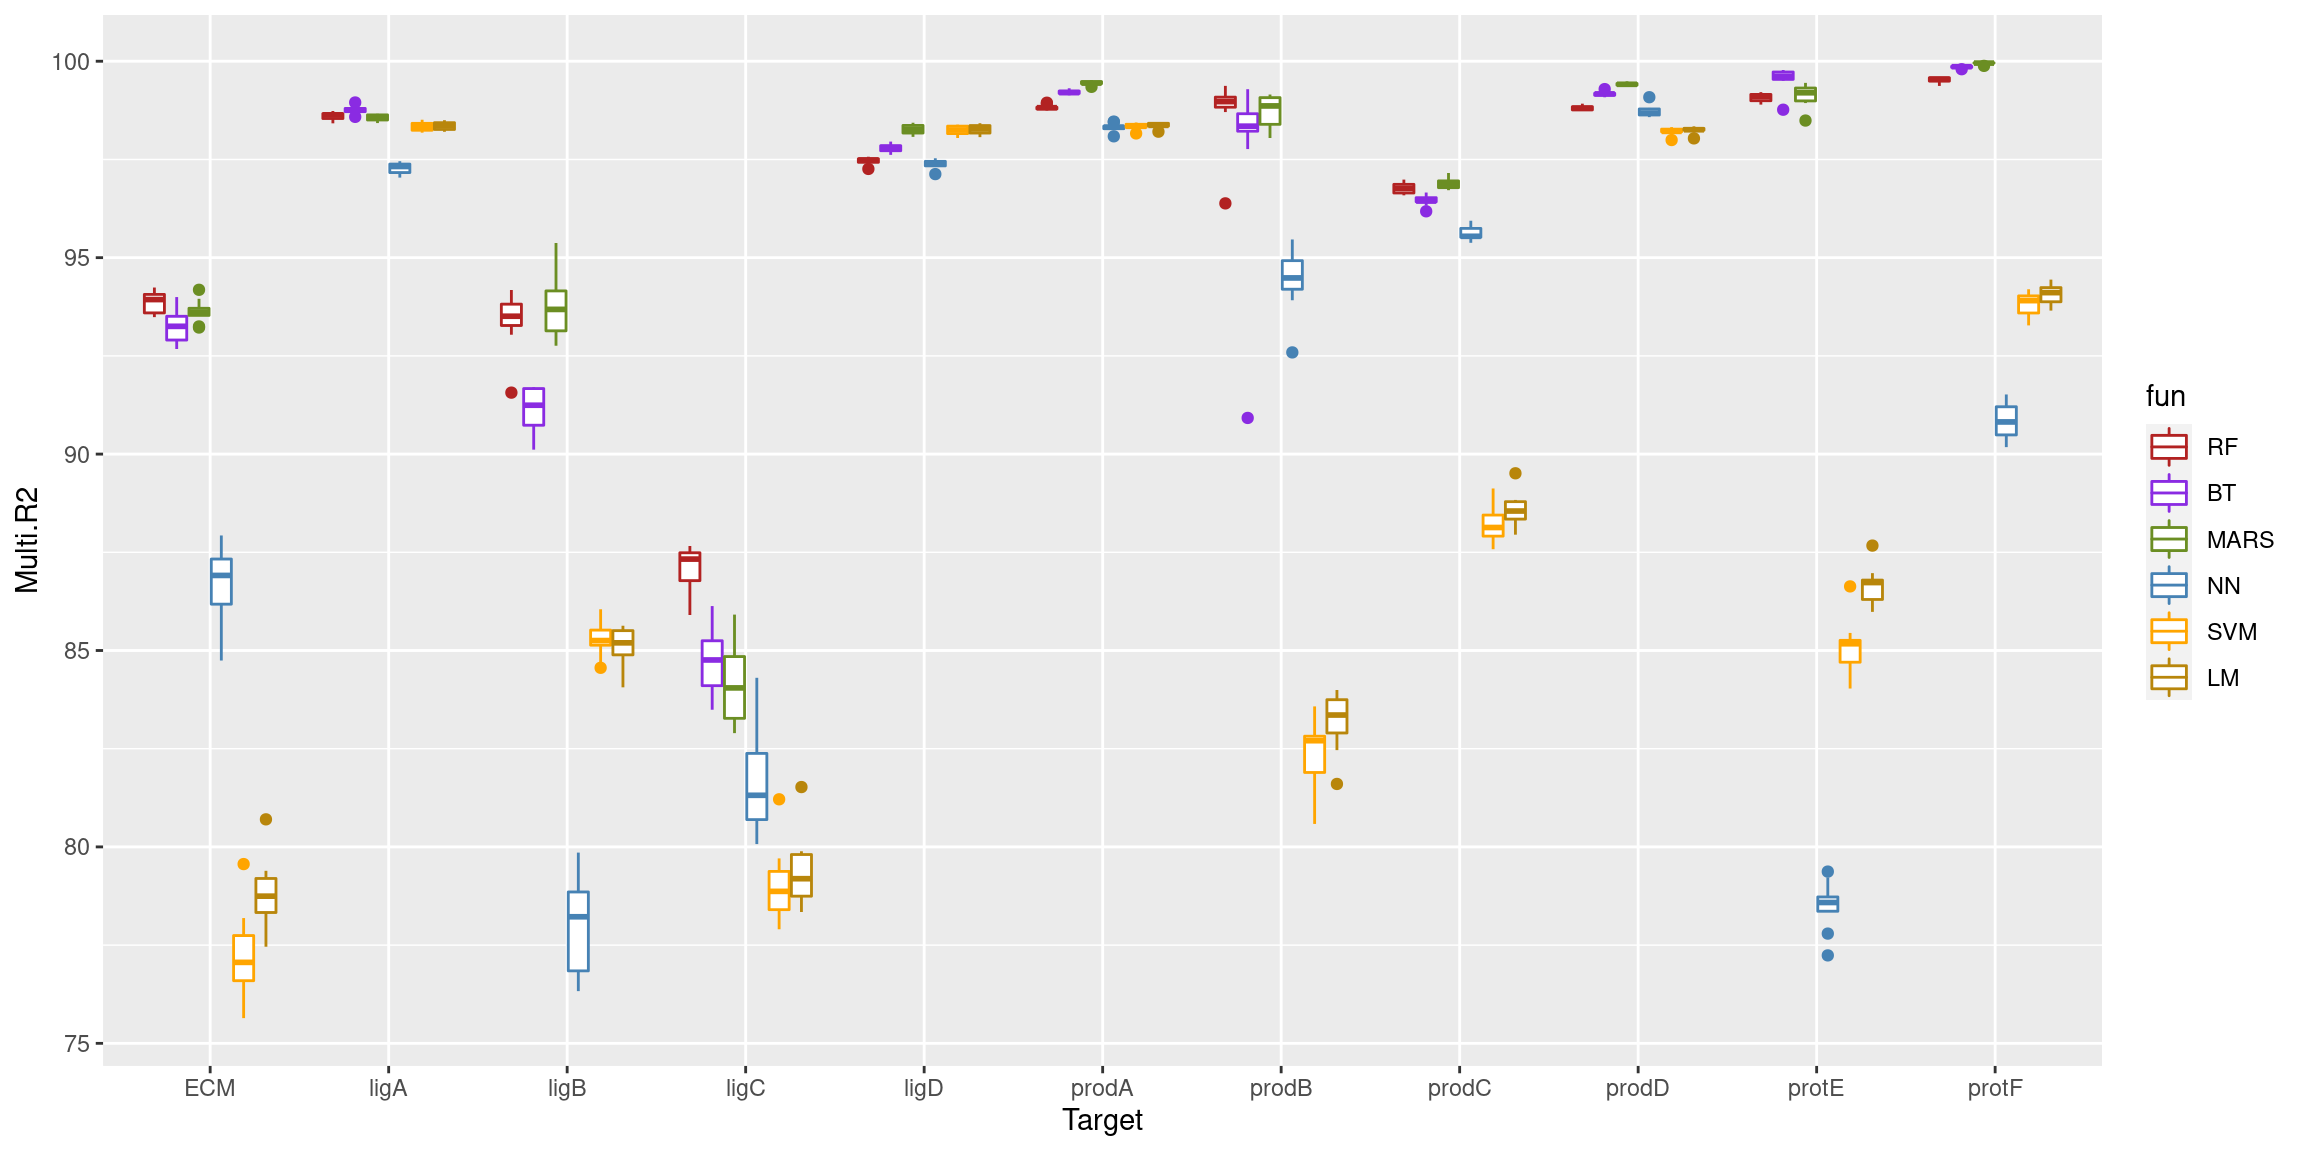
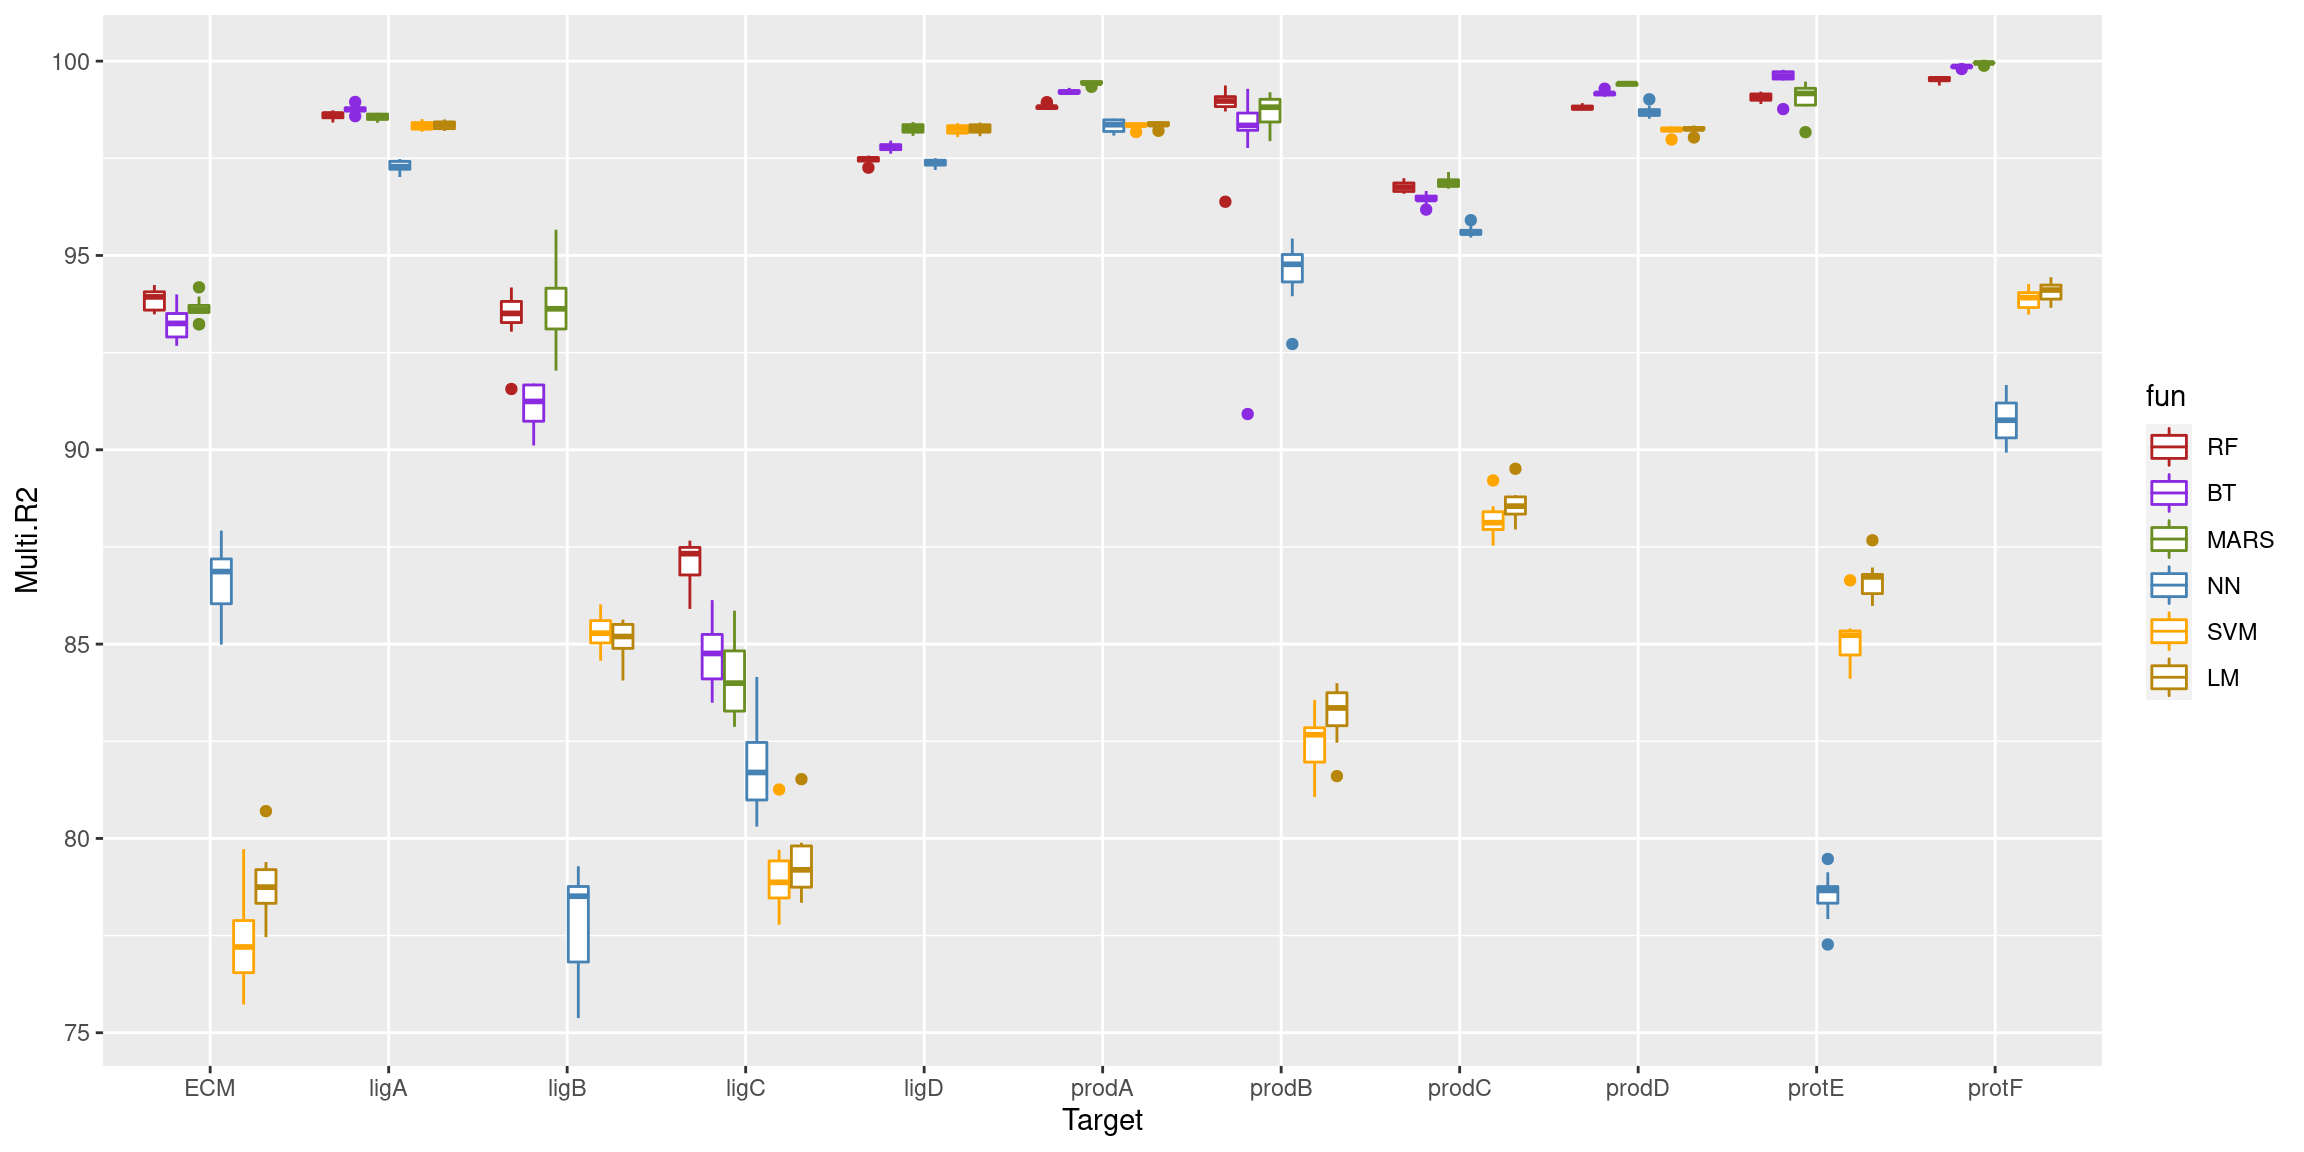
Build site.

diff --git a/docs/synthetic_benchmark.html b/docs/synthetic_benchmark.html
@@ -398,7 +398,7 @@ div.tocify {
 <div class="tab-content">
 <div id="summary" class="tab-pane fade in active">
 <p>
-<strong>Last updated:</strong> 2021-11-15
+<strong>Last updated:</strong> 2021-11-16
 </p>
 <p>
 <strong>Checks:</strong> <span class="glyphicon glyphicon-ok text-success" aria-hidden="true"></span> 6 <span class="glyphicon glyphicon-exclamation-sign text-danger" aria-hidden="true"></span> 1
@@ -513,22 +513,23 @@ relative
 <div class="panel panel-default">
 <div class="panel-heading">
 <p class="panel-title">
-<a data-toggle="collapse" data-parent="#workflowr-checks" href="#strongRepositoryversionstrongahrefhttpsgithubcomschae211benchmarktreeaf20d84d9941a5a5e75c9f7ff842868c2e2e1fbatargetblankaf20d84a"> <span class="glyphicon glyphicon-ok text-success" aria-hidden="true"></span> <strong>Repository version:</strong> <a href="https://github.com/schae211/benchmark/tree/af20d84d9941a5a5e75c9f7ff842868c2e2e1fba" target="_blank">af20d84</a> </a>
+<a data-toggle="collapse" data-parent="#workflowr-checks" href="#strongRepositoryversionstrongahrefhttpsgithubcomschae211benchmarktreea2447469f96a315973f8f68122227c2cbdb68fe2targetblanka244746a"> <span class="glyphicon glyphicon-ok text-success" aria-hidden="true"></span> <strong>Repository version:</strong> <a href="https://github.com/schae211/benchmark/tree/a2447469f96a315973f8f68122227c2cbdb68fe2" target="_blank">a244746</a> </a>
 </p>
 </div>
[2 lines of base64/hex data omitted]
 <div class="panel-body">
 <p>
 Great! You are using Git for version control. Tracking code development and connecting the code version to the results is critical for reproducibility.
 </p>
 <p>
-The results in this page were generated with repository version <a href="https://github.com/schae211/benchmark/tree/af20d84d9941a5a5e75c9f7ff842868c2e2e1fba" target="_blank">af20d84</a>. See the <em>Past versions</em> tab to see a history of the changes made to the R Markdown and HTML files.
+The results in this page were generated with repository version <a href="https://github.com/schae211/benchmark/tree/a2447469f96a315973f8f68122227c2cbdb68fe2" target="_blank">a244746</a>. See the <em>Past versions</em> tab to see a history of the changes made to the R Markdown and HTML files.
 </p>
 <p>
 Note that you need to be careful to ensure that all relevant files for the analysis have been committed to Git prior to generating the results (you can use <code>wflow_publish</code> or <code>wflow_git_commit</code>). workflowr only checks the R Markdown file, but you know if there are other scripts or data files that it depends on. Below is the status of the Git repository when the results were generated:
 </p>
 <pre><code>
 Ignored files:
+    Ignored:    analysis/synthetic_benchmark.html
     Ignored:    data/coord.RDS
     Ignored:    data/graph.clusters.RDS
     Ignored:    data/merfish_benchmark/
@@ -545,11 +546,14 @@ Ignored files:
     Ignored:    data/mibi_rowdata.RDS
     Ignored:    data/mibi_tiffs/
     Ignored:    data/mibi_tumor.immune.contacts.RDS
+    Ignored:    mibi_perf_comp.png
+    Ignored:    mibi_perf_comp2.png
     Ignored:    misty_results/
+    Ignored:    plot1.png
     Ignored:    results/
 
 Unstaged changes:
-    Modified:   analysis/mibi_TNBC_benchmark.Rmd
+    Modified:   analysis/tutorial.Rmd
 
 </code></pre>
 <p>
@@ -588,6 +592,57 @@ Message
 </tr>
 </thead>
 <tbody>
+<tr>
+<td>
+Rmd
+</td>
+<td>
+<a href="https://github.com/schae211/benchmark/blob/24355fdd8947235f1b35f511628b729670e10a1b/analysis/synthetic_benchmark.Rmd" target="_blank">24355fd</a>
+</td>
+<td>
+schae211
+</td>
+<td>
+2021-11-15
+</td>
+<td>
+mibi tnbc benchmark done without SVM
+</td>
+</tr>
+<tr>
+<td>
+Rmd
+</td>
+<td>
+<a href="https://github.com/schae211/benchmark/blob/39f797fa7d63b846dfa1e983b388c2b495b1d505/analysis/synthetic_benchmark.Rmd" target="_blank">39f797f</a>
+</td>
+<td>
+schae211
+</td>
+<td>
+2021-11-15
+</td>
+<td>
+new default nbags for mars
+</td>
+</tr>
+<tr>
+<td>
+html
+</td>
+<td>
+<a href="https://rawcdn.githack.com/schae211/benchmark/39f797fa7d63b846dfa1e983b388c2b495b1d505/docs/synthetic_benchmark.html" target="_blank">39f797f</a>
+</td>
+<td>
+schae211
+</td>
+<td>
+2021-11-15
+</td>
+<td>
+new default nbags for mars
+</td>
+</tr>
 <tr>
 <td>
 Rmd
@@ -671,7 +726,7 @@ Generating paraview</code></pre>
     results.folders &lt;- map2(misty.views.smp, names(misty.views.smp), 
                           function(sample.views, sample.name) {
       run_misty(views = sample.views, 
-                results.folder = paste0(&quot;misty_results/mibi_tnbc/&quot;,
+                results.folder = paste0(&quot;misty_results/synthetic/&quot;,
                                         fun.name,&quot;/&quot;,sample.name), 
                 model.function = fun, seed = 42, cv.folds = 10)
     })
@@ -696,7 +751,44 @@ order &lt;- c(&quot;RF&quot;, &quot;BT&quot;, &quot;MARS&quot;, &quot;NN&quot;, 
   labs(x = &quot;Target&quot;, y = &quot;Multi.R2&quot;) +
   scale_color_manual(values = fun.colors)</code></pre>
 <p><img src="figure/synthetic_benchmark.Rmd/unnamed-chunk-8-1.png" width="1152" style="display: block; margin: auto;" /></p>
-<pre class="r"><code>misty.function.performance %&gt;%
+<p>
+<button type="button" class="btn btn-default btn-xs btn-workflowr btn-workflowr-fig" data-toggle="collapse" data-target="#fig-unnamed-chunk-8-1">
+Past versions of unnamed-chunk-8-1.png
+</button>
+</p>
+<div id="fig-unnamed-chunk-8-1" class="collapse">
+<div class="table-responsive">
+<table class="table table-condensed table-hover">
+<thead>
+<tr>
+<th>
+Version
+</th>
+<th>
+Author
+</th>
+<th>
+Date
+</th>
+</tr>
+</thead>
+<tbody>
+<tr>
+<td>
+<a href="https://github.com/schae211/benchmark/blob/39f797fa7d63b846dfa1e983b388c2b495b1d505/docs/figure/synthetic_benchmark.Rmd/unnamed-chunk-8-1.png" target="_blank">39f797f</a>
+</td>
+<td>
+schae211
+</td>
+<td>
+2021-11-15
+</td>
+</tr>
+</tbody>
+</table>
+</div>
+</div>
+<pre class="r"><code>plot &lt;- misty.function.performance %&gt;%
   filter(measure == &quot;multi.R2&quot;) %&gt;%
   mutate(fun = factor(fun, levels = order), 
          sample = NULL, measure = NULL) %&gt;%
@@ -704,9 +796,49 @@ order &lt;- c(&quot;RF&quot;, &quot;BT&quot;, &quot;MARS&quot;, &quot;NN&quot;, 
   geom_boxplot(aes(x = fun, y = value, col = fun)) +
   labs(x = &quot;Target&quot;, y = &quot;Multi.R2&quot;) +
   scale_color_manual(values = fun.colors) +
-  facet_wrap(~ target, ncol=3, scale=&quot;free&quot;) +
-  theme(axis.text.x = element_blank())</code></pre>
-<p><img src="figure/synthetic_benchmark.Rmd/unnamed-chunk-9-1.png" width="768" style="display: block; margin: auto;" /></p>
+  facet_wrap(~ target, ncol=6, scale=&quot;free&quot;) +
+  theme_light() +
+  theme(axis.text.x = element_blank())
+plot</code></pre>
+<p><img src="figure/synthetic_benchmark.Rmd/unnamed-chunk-9-1.png" width="864" style="display: block; margin: auto;" /></p>
+<p>
+<button type="button" class="btn btn-default btn-xs btn-workflowr btn-workflowr-fig" data-toggle="collapse" data-target="#fig-unnamed-chunk-9-1">
+Past versions of unnamed-chunk-9-1.png
+</button>
+</p>
+<div id="fig-unnamed-chunk-9-1" class="collapse">
+<div class="table-responsive">
+<table class="table table-condensed table-hover">
+<thead>
+<tr>
+<th>
+Version
+</th>
+<th>
+Author
+</th>
+<th>
+Date
+</th>
+</tr>
+</thead>
+<tbody>
+<tr>
+<td>
+<a href="https://github.com/schae211/benchmark/blob/39f797fa7d63b846dfa1e983b388c2b495b1d505/docs/figure/synthetic_benchmark.Rmd/unnamed-chunk-9-1.png" target="_blank">39f797f</a>
+</td>
+<td>
+schae211
+</td>
+<td>
+2021-11-15
+</td>
+</tr>
+</tbody>
+</table>
+</div>
+</div>
+<pre class="r"><code>ggsave(&quot;plot1.png&quot;, plot=plot, dpi=300, width=9, height=3)</code></pre>
 <p>Summary statistics</p>
 <pre class="r"><code>misty.function.performance %&gt;%
   filter(measure == &quot;multi.R2&quot;) %&gt;%
@@ -717,7 +849,7 @@ order &lt;- c(&quot;RF&quot;, &quot;BT&quot;, &quot;MARS&quot;, &quot;NN&quot;, 
   arrange(desc(mean.R2))</code></pre>
 <div data-pagedtable="false">
 <script data-pagedtable-source type="application/json">
-{"columns":[{"label":["fun"],"name":[1],"type":["fct"],"align":["left"]},{"label":["mean.R2"],"name":[2],"type":["dbl"],"align":["right"]},{"label":["sd.R2"],"name":[3],"type":["dbl"],"align":["right"]}],"data":[{"1":"RF","2":"96.56229","3":"3.630176"},{"1":"MARS","2":"96.53293","3":"4.486362"},{"1":"BT","2":"96.14255","3":"4.564308"},{"1":"NN","2":"90.67428","3":"7.794228"},{"1":"LM","2":"89.90869","3":"7.521815"},{"1":"SVM","2":"89.47307","3":"7.898946"}],"options":{"columns":{"min":{},"max":[10]},"rows":{"min":[10],"max":[10]},"pages":{}}}
+{"columns":[{"label":["fun"],"name":[1],"type":["fct"],"align":["left"]},{"label":["mean.R2"],"name":[2],"type":["dbl"],"align":["right"]},{"label":["sd.R2"],"name":[3],"type":["dbl"],"align":["right"]}],"data":[{"1":"RF","2":"96.56229","3":"3.630176"},{"1":"MARS","2":"96.51289","3":"4.496174"},{"1":"BT","2":"96.14255","3":"4.564308"},{"1":"NN","2":"90.68445","3":"7.796698"},{"1":"LM","2":"89.90869","3":"7.521815"},{"1":"SVM","2":"89.48618","3":"7.892362"}],"options":{"columns":{"min":{},"max":[10]},"rows":{"min":[10],"max":[10]},"pages":{}}}
   </script>
 </div>
 <br>
@@ -751,6 +883,7 @@ other attached packages:
  [1] factoextra_1.0.7 forcats_0.5.1    stringr_1.4.0    dplyr_1.0.7     
  [5] purrr_0.3.4      readr_2.0.2      tidyr_1.1.4      tibble_3.1.5    
  [9] ggplot2_3.3.5    tidyverse_1.3.1  future_1.22.1    mistyR_1.3.1    
+[13] workflowr_1.6.2 
 
 loaded via a namespace (and not attached):
  [1] fs_1.5.0          lubridate_1.8.0   httr_1.4.2        rprojroot_2.0.2  
@@ -771,8 +904,8 @@ loaded via a namespace (and not attached):
 [61] codetools_0.2-18  reprex_2.0.1      glue_1.4.2        evaluate_0.14    
 [65] data.table_1.14.2 modelr_0.1.8      vctrs_0.3.8       tzdb_0.1.2       
 [69] httpuv_1.6.3      cellranger_1.1.0  gtable_0.3.0      assertthat_0.2.1 
-[73] xfun_0.26         broom_0.7.9       later_1.3.0       workflowr_1.6.2  
-[77] globals_0.14.0    ellipsis_0.3.2   </code></pre>
+[73] xfun_0.26         broom_0.7.9       later_1.3.0       globals_0.14.0   
+[77] ellipsis_0.3.2   </code></pre>
 </div>
 </div>
 
@@ -827,7 +960,7 @@ $(document).ready(function () {
 <!-- code folding -->
 <script>
 $(document).ready(function () {
-  window.initializeCodeFolding("hide" === "show");
+  window.initializeCodeFolding("show" === "show");
 });
 </script>
 
